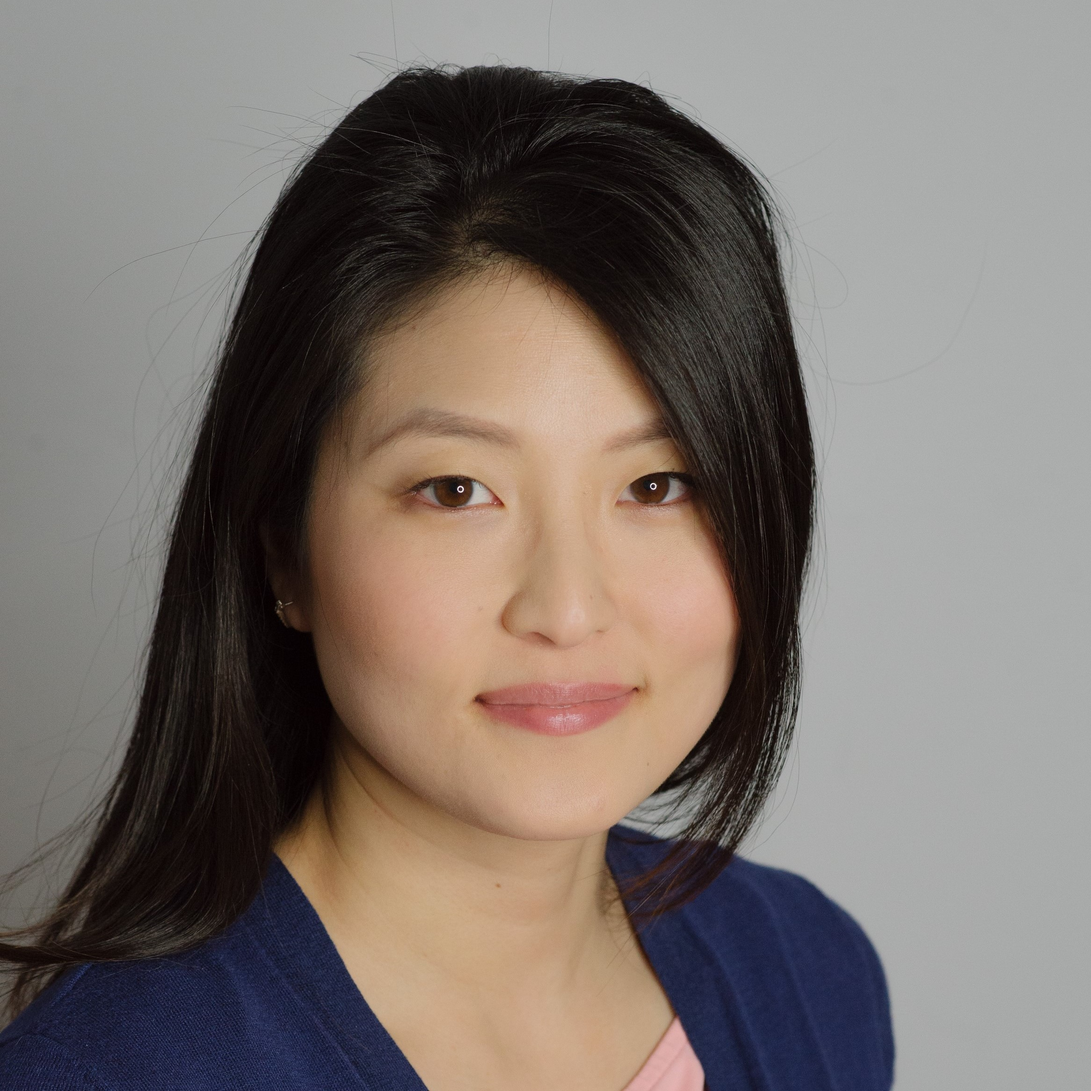
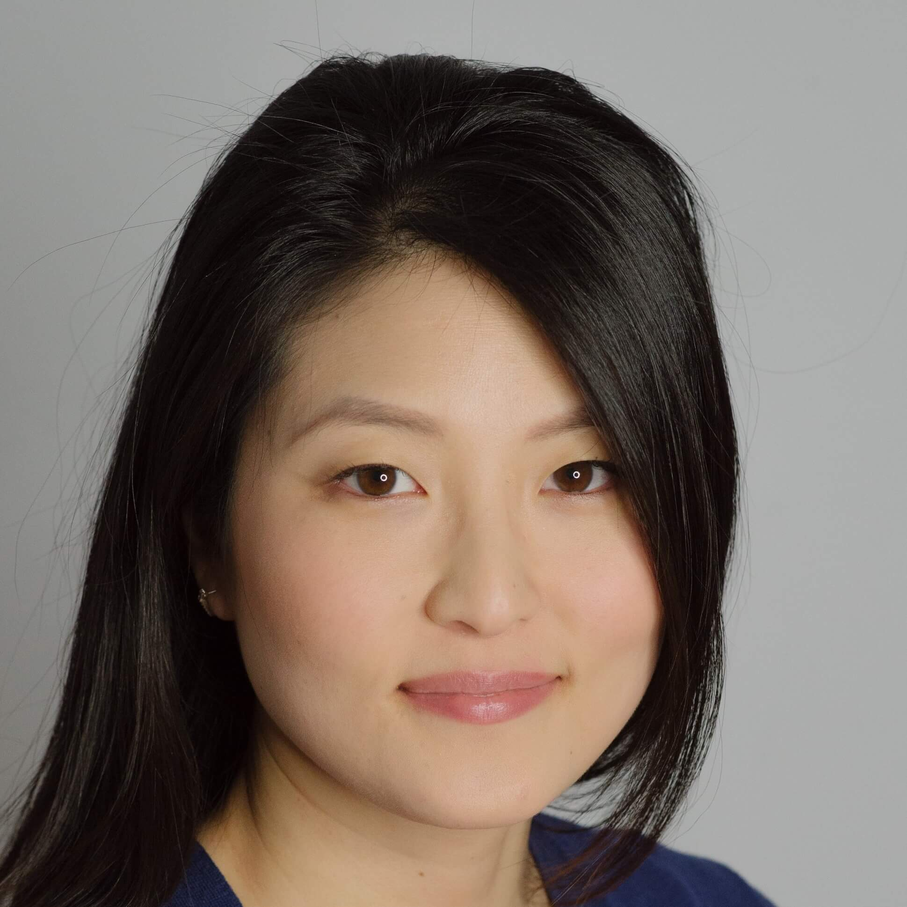
Added all portfolio mockup images and updated profile picture

diff --git a/index.html b/index.html
@@ -205,7 +205,7 @@
 				<h3 class="portfolio__container__header3">React & Firebase Application</h3>
 				<div class="portfolio__container">
 					<div class="portfolio__container__image-container">
-						<img class="portfolio__container__image-container__image" src="../public/assets/smartmockups_jhxjumx5.png" alt="mockup">
+						<img class="portfolio__container__image-container__image" src="../public/assets/mockup_dog-park.png" alt="mockup">
 					</div>
 					<div class="portfolio__container__content">
 						<p class="portfolio__container__content__title">Toronto - Unleashed</p>
@@ -231,7 +231,7 @@
 				<h3 class="portfolio__container__header3">AJAX/APIs & jQuery Application</h3>
 					<div class="portfolio__container">
 						<div class="portfolio__container__image-container">
-							<img class="portfolio__container__image-container__image" src="../public/assets/smartmockups_jhxjumx5.png" alt="mockup">
+							<img class="portfolio__container__image-container__image" src="../public/assets/mockup_need-a-drink.png" alt="mockup">
 						</div>
 					<div class="portfolio__container__content">
 						<p class="portfolio__container__content__title">Need a drink?</p>
@@ -255,7 +255,7 @@
 				<h3 class="portfolio__container__header3">Javascript/jQuery Application</h3>
 					<div class="portfolio__container">
 						<div class="portfolio__container__image-container">
-							<img class="portfolio__container__image-container__image" src="../public/assets/smartmockups_jhxjumx5.png" alt="mockup">
+							<img class="portfolio__container__image-container__image" src="../public/assets/mockup_colour.png" alt="mockup">
 						</div>
 					<div class="portfolio__container__content">
 						<div class="portfolio__container__content__text">

diff --git a/public/styles/style.css b/public/styles/style.css
@@ -161,6 +161,7 @@ body {
 
 .header .logo {
   width: 50px;
+  height: 50px;
   position: absolute;
   z-index: 10;
   padding-left: 0px;
@@ -168,7 +169,8 @@ body {
   @media (min-width: 640px) {
     .header .logo {
       top: 5px;
-      width: 70px; } }
+      width: 70px;
+      height: 70px; } }
   @media (min-width: 1040px) {
     .header .logo {
       left: calc(10% - 17px); } }

diff --git a/dev/styles/_header.scss b/dev/styles/_header.scss
@@ -1,6 +1,7 @@
 .header {
   .logo {
     width: 50px;
+    height: 50px;
     position: absolute;
     z-index: 10;
     padding-left: 0px;
@@ -8,6 +9,7 @@
     @media (min-width: 640px) {
       top: 5px;
       width: 70px;
+      height: 70px;
     }
     @media (min-width: 1040px) {
       left: calc(10% - 17px);
